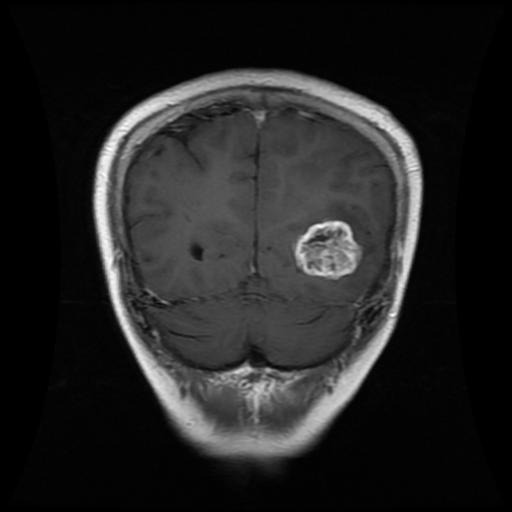
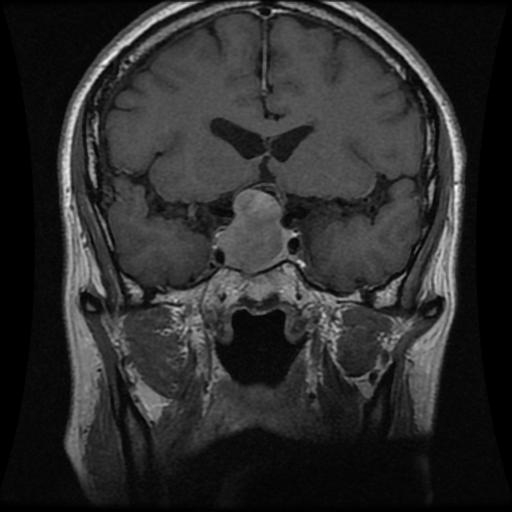
v3

diff --git a/gradcam.py b/gradcam.py
@@ -1,0 +1,74 @@
+import cv2
+import torch
+import numpy as np
+import matplotlib.pyplot as plt
+from PIL import Image
+
+from src.data.transforms import get_transforms
+from src.etape3.model import build_model
+
+def run_gradcam(img_path="test.jpg", save_path="outputs/gradcam_result.png"):
+    # 1. Chargement du modèle (sur CPU pour éviter les soucis de mémoire)
+    device = torch.device("cpu")
+    model = build_model(num_classes=3, dropout=0.0)
+    model.load_state_dict(torch.load("outputs/model_etape3.pth", map_location=device))
+
+    for param in model.parameters():
+        param.requires_grad = True
+        
+    model.eval()
+
+    activations = None
+    gradients = None
+
+    def forward_hook(module, input, output):
+        nonlocal activations
+        activations = output
+
+    def backward_hook(module, grad_input, grad_output):
+        nonlocal gradients
+        gradients = grad_output[0]
+
+    target_layer = model.features[-1]
+    target_layer.register_forward_hook(forward_hook)
+    target_layer.register_full_backward_hook(backward_hook)
+
+    #Préparation de l'image
+    original_img = cv2.cvtColor(cv2.imread(img_path), cv2.COLOR_BGR2RGB)
+    transform = get_transforms("val", 224)
+    input_tensor = transform(Image.open(img_path).convert("RGB")).unsqueeze(0).to(device)
+
+    #passage dans le réseau
+    output = model(input_tensor)
+    pred_class = output.argmax(dim=1).item()
+    
+    model.zero_grad()
+    output[0, pred_class].backward()
+
+    #Grad-CAM
+    # On fait la moyenne des gradients
+    pooled_gradients = torch.mean(gradients, dim=[0, 2, 3])
+    
+    # On pondère chaque carte d'activation par son importance
+    for i in range(activations.shape[1]):
+        activations[:, i, :, :] *= pooled_gradients[i]
+
+    # On fusionne toutes les cartes en une seule Heatmap (Carte de chaleur)
+    heatmap = torch.mean(activations, dim=1).squeeze().detach().numpy()
+    heatmap = np.maximum(heatmap, 0) # ReLU : on garde que les valeurs positives
+    heatmap /= np.max(heatmap)       # Normalisation entre 0 et 1
+
+    # 6. Superposition Visuelle (OpenCV)
+    heatmap_resized = cv2.resize(heatmap, (original_img.shape[1], original_img.shape[0]))
+    heatmap_colored = cv2.applyColorMap(np.uint8(255 * heatmap_resized), cv2.COLORMAP_JET)
+    superimposed_img = heatmap_colored * 0.4 + original_img * 0.6 # Mélange à 40/60
+
+    # Sauvegarde
+    plt.figure(figsize=(8, 8))
+    plt.imshow(superimposed_img.astype(np.uint8))
+    plt.title(f"Grad-CAM (Classe prédite : {pred_class})")
+    plt.axis('off')
+    plt.savefig(save_path, bbox_inches='tight')
+
+if __name__ == "__main__":
+    run_gradcam()

diff --git a/src/data/transforms.py b/src/data/transforms.py
@@ -1,13 +1,52 @@
+import cv2
+import numpy as np
+from PIL import Image
 from torchvision import transforms
 
 MEAN = [0.485, 0.456, 0.406]
 STD  = [0.229, 0.224, 0.225]
 
+class RemoveSkullAndFace(object):
+    """
+    Transform sur-mesure qui utilise OpenCV pour isoler le cerveau.
+    Il trouve la plus grosse masse, et peint tout le reste en noir.
+    Aucun zoom n'est appliqué, aucune information centrale/périphérique n'est perdue.
+    """
+    def __call__(self, img):
+        # 1. Convertir l'image PIL en tableau pour OpenCV
+        img_np = np.array(img)
+        gray = cv2.cvtColor(img_np, cv2.COLOR_RGB2GRAY)
+
+        # 2. Seuillage pour différencier le fond du patient
+        # (Tout ce qui est plus lumineux que 15/255 devient blanc)
+        _, thresh = cv2.threshold(gray, 15, 255, cv2.THRESH_BINARY)
+
+        # 3. Trouver tous les contours des objets dans l'image
+        contours, _ = cv2.findContours(thresh, cv2.RETR_EXTERNAL, cv2.CHAIN_APPROX_SIMPLE)
+
+        # Sécurité : si l'image est toute noire, on ne fait rien
+        if not contours:
+            return img
+
+        # 4. Garder uniquement le contour le plus vaste (le cerveau)
+        largest_contour = max(contours, key=cv2.contourArea)
+
+        # 5. Créer un masque noir, et dessiner le cerveau en blanc dessus
+        mask = np.zeros_like(gray)
+        cv2.drawContours(mask, [largest_contour], -1, 255, thickness=cv2.FILLED)
+
+        # 6. Appliquer le masque : le cerveau reste, le nez/crâne disparaît dans le noir
+        img_cleaned = cv2.bitwise_and(img_np, img_np, mask=mask)
+
+        return Image.fromarray(img_cleaned)
 
 def get_transforms(mode: str, image_size: int = 224):
-
+    """
+    Retourne les transformations avec notre nouveau filtre OpenCV intégré.
+    """
     if mode == "train":
         return transforms.Compose([
+            RemoveSkullAndFace(), # <-- Notre arme secrète anti-biais !
             transforms.Resize((image_size, image_size)),
             transforms.RandomHorizontalFlip(),
             transforms.RandomRotation(15),
@@ -17,6 +56,7 @@ def get_transforms(mode: str, image_size: int = 224):
         ])
 
     return transforms.Compose([
+        RemoveSkullAndFace(), # Doit aussi être appliqué pour l'évaluation !
         transforms.Resize((image_size, image_size)),
         transforms.ToTensor(),
         transforms.Normalize(MEAN, STD),

diff --git a/src/etape3/model.py b/src/etape3/model.py
@@ -3,8 +3,14 @@ from torchvision import models
 
 def build_model(num_classes: int = 3, dropout: float = 0.3) -> nn.Module:
     model = models.efficientnet_b0(weights=models.EfficientNet_B0_Weights.DEFAULT)
-    for param in model.features.parameters():
+    for param in model.parameters():
         param.requires_grad = False
+
+    for param in model.features[7].parameters():
+        param.requires_grad = True
+    for param in model.features[8].parameters():
+        param.requires_grad = True
+
     in_features = model.classifier[1].in_features
     model.classifier = nn.Sequential(
         nn.Dropout(p=dropout),